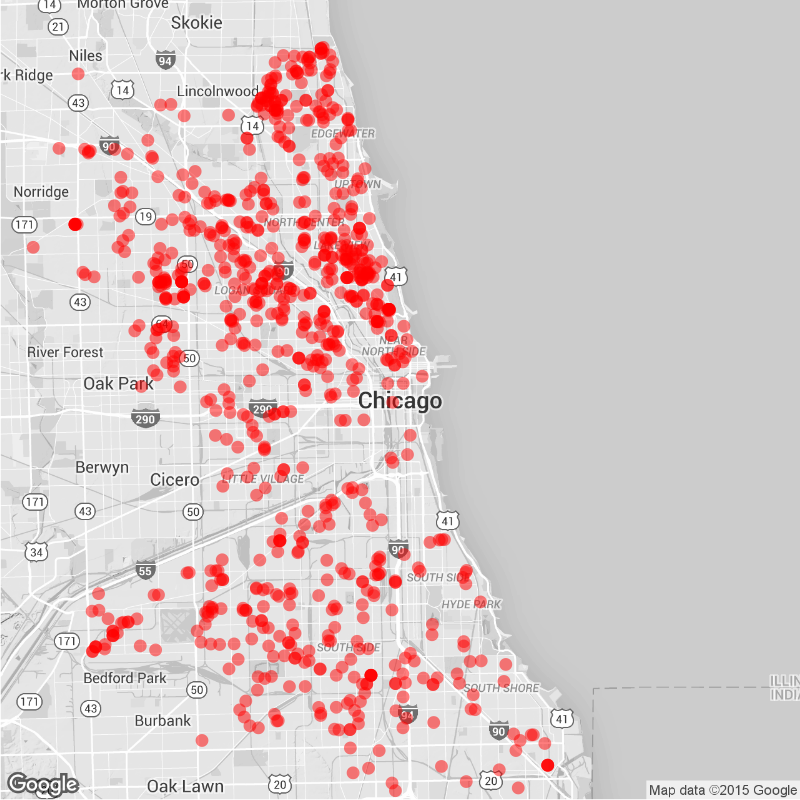
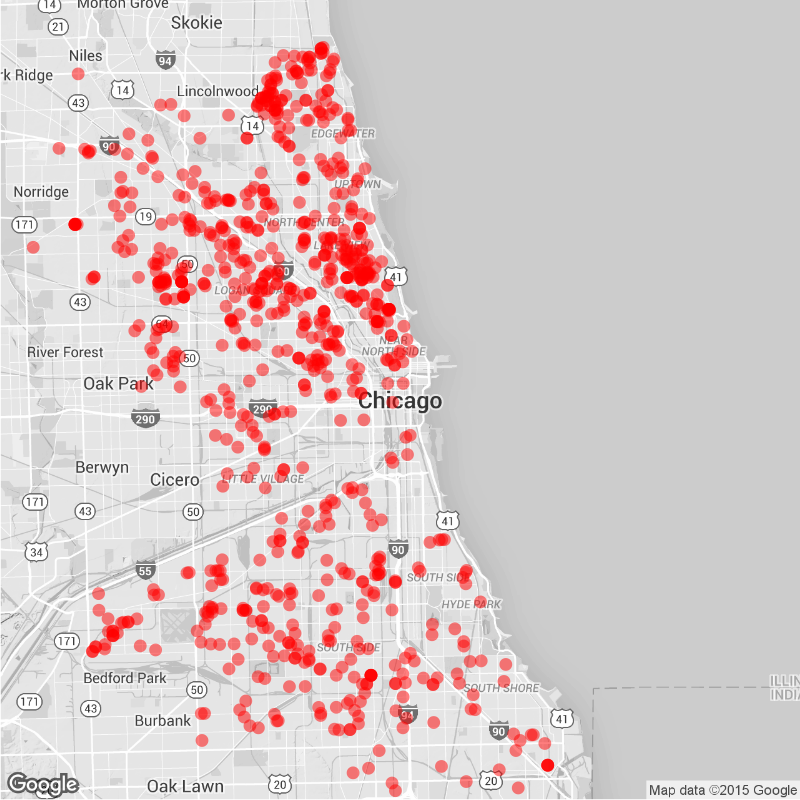
Daily Maps

diff --git a/daily.md b/daily.md
@@ -15,22 +15,22 @@ tags: Chicago NYC weekly daily rats
 
 ### Daily
 
-Yesterday (October 24), there were 46 calls to Chicago's 311 line about rats.
+Yesterday (October 25), there were 41 calls to Chicago's 311 line about rats.
 ![Chicago rat calls to 311 weekly map]({{ site.cityimages }}/daily/Chicago_Rat_Map_Daily.png)
 
 ### Weekly
-Between October 18 and October 24, there were 885 calls to Chicago's 311 line about rats. The average number of weekly calls for this time of year is 580.
+Between October 19 and October 25, there were 879 calls to Chicago's 311 line about rats. The average number of weekly calls for this time of year is 580.
 ![Chicago rat calls to 311 weekly map]({{ site.cityimages }}/daily/Chicago_Rat_Map_Weekly.png)
 ***
 # New York City <a id="nyc"><a>
 
 ### Daily
 
-Yesterday (October 24), there were 0 calls to New York City's 311 line about rats.
+Yesterday (October 25), there were 0 calls to New York City's 311 line about rats.
 ![NYC rat calls to 311 weekly map]({{ site.cityimages }}/daily/NYC_Rat_Map_Daily.png)
 
 ### Weekly
-Between October 18 and October 24, there were 0 calls to New York City's 311 line about rats. The average number of weekly calls for this time of year is 198.
+Between October 19 and October 25, there were 0 calls to New York City's 311 line about rats. The average number of weekly calls for this time of year is 198.
 ![NYC rat calls to 311 weekly map]({{ site.cityimages }}/daily/NYC_Rat_Map_Weekly.png)
 
 Each red dot represents one call about a rat seen in that location. The dots are transparent, so multiple calls from one location will be seen as a solid dot. The usual caveats apply: more calls do not necessarily mean that there are more rats in that location than other parts of the city. A cluster of dots could indicate that one resident is unusually vocal about rodents in his or her neighborhood. Also, more densely populated neighborhoods tend to make more calls to 311.
